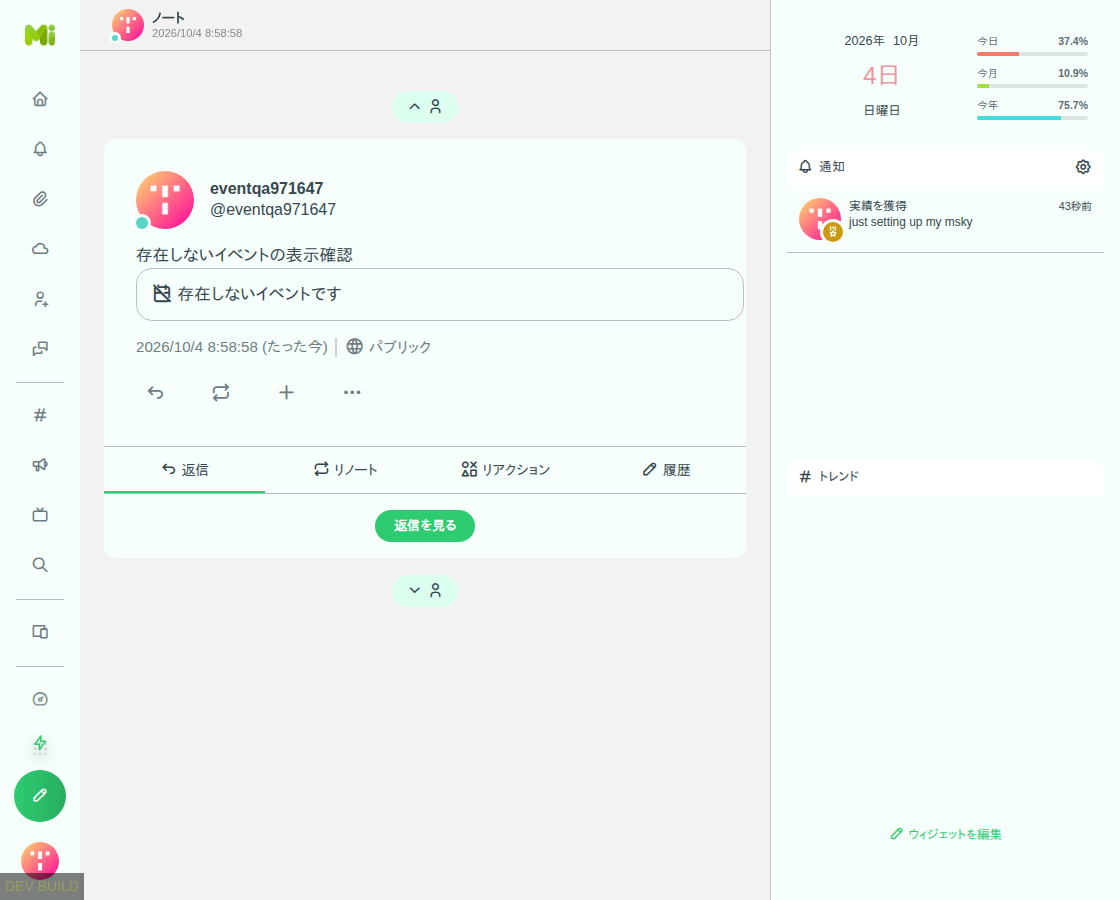
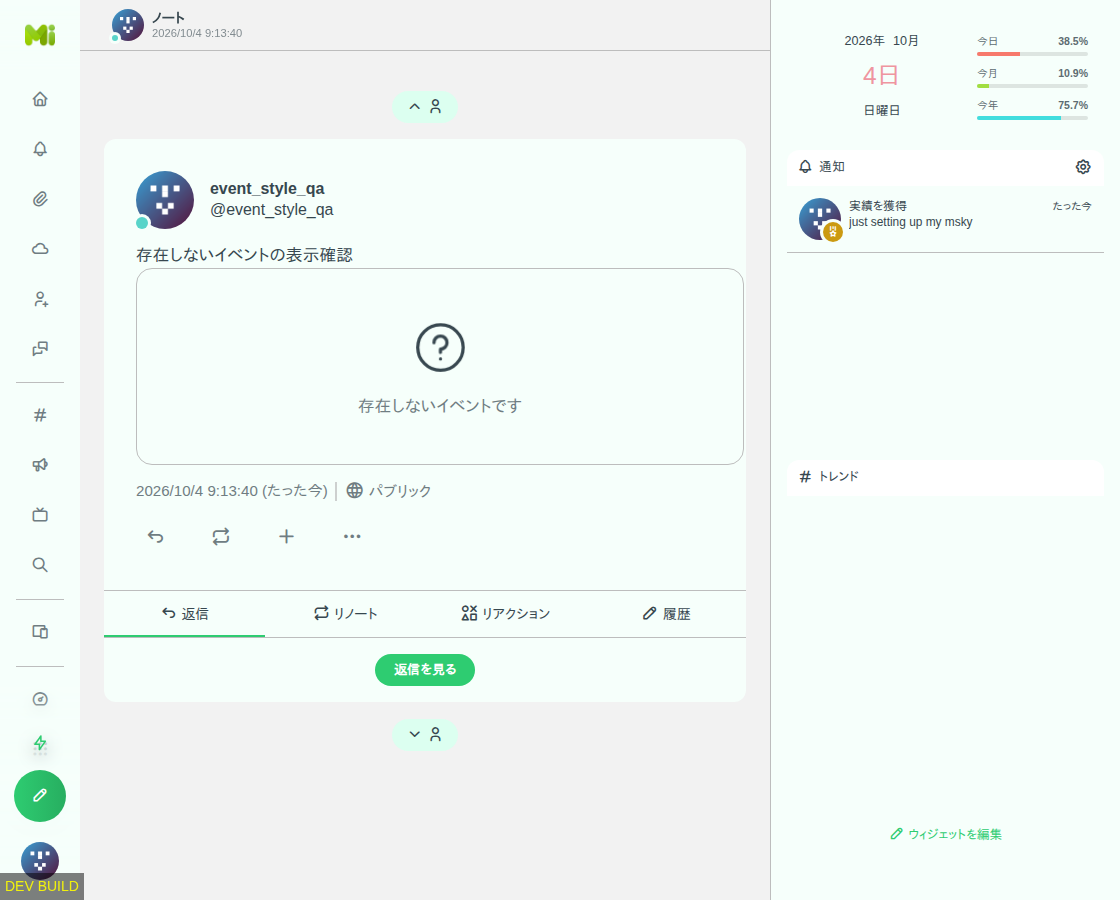
fix(frontend): イベント未検出時の表示を共通エラー画面に揃える

diff --git a/packages/frontend/src/pages/event.vue b/packages/frontend/src/pages/event.vue
@@ -127,11 +127,14 @@ SPDX-License-Identifier: AGPL-3.0-only
 		</div>
 	</div>
 	<div v-else-if="loadError" :class="$style.root">
-		<p role="status">{{ loadError }}</p>
-		<MkButton @click="router.push('/events')">
-			<i class="ti ti-arrow-left" aria-hidden="true"></i>
-			{{ i18n.ts.goBack }}
-		</MkButton>
+		<MkResult :type="notFound ? 'notFound' : 'error'" :text="loadError" role="status">
+			<div class="_buttonsCenter">
+				<MkButton rounded @click="router.push('/events')">
+					<i class="ti ti-arrow-left" aria-hidden="true"></i>
+					{{ i18n.ts.goBack }}
+				</MkButton>
+			</div>
+		</MkResult>
 	</div>
 	<div v-else :class="$style.loading">
 		<MkLoading/>
@@ -146,6 +149,7 @@ import { url } from '@@/js/config.js';
 import MkButton from '@/components/MkButton.vue';
 import MkAvatar from '@/components/global/MkAvatar.vue';
 import MkLoading from '@/components/global/MkLoading.vue';
+import MkResult from '@/components/global/MkResult.vue';
 import { misskeyApi } from '@/utility/misskey-api.js';
 import { i18n } from '@/i18n.js';
 import { definePage } from '@/page.js';
@@ -161,6 +165,7 @@ const router = useRouter();
 const eventId = toRef(props, 'eventId');
 const event = ref<Misskey.entities.Event | null>(null);
 const loadError = ref<string | null>(null);
+const notFound = ref(false);
 const canManagePendingEvent = ref(false);
 
 const isOwner = computed(() => {
@@ -174,7 +179,8 @@ async function fetchEvent() {
 		event.value = await misskeyApi('events/show', { eventId: eventId.value });
 	} catch (error) {
 		event.value = null;
-		loadError.value = (error as { code?: string }).code === 'NO_SUCH_EVENT'
+		notFound.value = (error as { code?: string }).code === 'NO_SUCH_EVENT';
+		loadError.value = notFound.value
 			? i18n.ts._events.eventNotFound
 			: i18n.ts._events.unknownError;
 		return;

diff --git a/packages/frontend/test/unit/events.test.ts b/packages/frontend/test/unit/events.test.ts
@@ -16,11 +16,13 @@ vi.mock('@/router.js', () => ({ useRouter: () => ({ push: fixture.push }) }));
 vi.mock('@/os.js', () => ({ alert: fixture.alert }));
 vi.mock('@/i.js', () => ({ $i: null, iAmModerator: false }));
 vi.mock('@/cache.js', () => ({}));
+vi.mock('@/instance.js', () => ({ instance: {} }));
 
 const global = { stubs: {
 	PageWithHeader: { template: '<main><slot/></main>' },
 	MkButton: { props: ['disabled'], template: '<button :disabled="disabled"><slot/></button>' },
 	MkLoading: { template: '<div data-testid="loading"/>' },
+	MkSystemIcon: { props: ['type'], template: '<div data-testid="result-icon" :data-type="type"/>' },
 	MkTime: true,
 	MkAvatar: true,
 	Mfm: true,
@@ -44,6 +46,7 @@ describe('Event failure presentation', () => {
 		fixture.api.mockRejectedValue({ code: 'NO_SUCH_EVENT' });
 		const view = render(component, { props: { eventId: 'missing' }, global });
 		await waitFor(() => expect(view.getByText(i18n.ts._events.eventNotFound)).toBeTruthy());
+		expect(view.getByTestId('result-icon').getAttribute('data-type')).toBe('question');
 		expect(view.queryByTestId('loading')).toBeNull();
 		expect(fixture.api).toHaveBeenCalledWith('events/show', { eventId: 'missing' });
 	});
@@ -52,6 +55,7 @@ describe('Event failure presentation', () => {
 		fixture.api.mockRejectedValue(new Error('Network error'));
 		const view = render(component, { props: { eventId: 'event' }, global });
 		await waitFor(() => expect(view.getByText(i18n.ts._events.unknownError)).toBeTruthy());
+		expect(view.getByTestId('result-icon').getAttribute('data-type')).toBe('error');
 		expect(view.queryByText(i18n.ts._events.eventNotFound)).toBeNull();
 		expect(view.queryByTestId('loading')).toBeNull();
 	});

diff --git a/packages/frontend/src/components/MkUrlEventCard.vue b/packages/frontend/src/components/MkUrlEventCard.vue
@@ -99,7 +99,7 @@ SPDX-License-Identifier: AGPL-3.0-only
 </article>
 <article v-else :class="$style.root" role="status">
 	<MkLoading v-if="loading"/>
-	<div v-else><i class="ti ti-calendar-off" aria-hidden="true"></i> {{ loadError }}</div>
+	<MkResult v-else :type="notFound ? 'notFound' : 'error'" :text="loadError ?? undefined"/>
 </article>
 </template>
 
@@ -108,6 +108,7 @@ import { computed, ref, onMounted, toRef } from 'vue';
 import type * as Misskey from 'misskey-js';
 import MkButton from '@/components/MkButton.vue';
 import MkLink from '@/components/MkLink.vue';
+import MkResult from '@/components/global/MkResult.vue';
 import { i18n } from '@/i18n.js';
 import { useRouter } from '@/router.js';
 import { misskeyApi } from '@/utility/misskey-api.js';
@@ -123,6 +124,7 @@ const eventData = ref<Misskey.entities.Event | null>(null);
 const channelName = ref<string | null>(null);
 const loading = ref(true);
 const loadError = ref<string | null>(null);
+const notFound = ref(false);
 
 onMounted(async () => {
 	try {
@@ -133,7 +135,8 @@ onMounted(async () => {
 				.then(channel => channel.name).catch(() => null);
 		}
 	} catch (error) {
-		loadError.value = (error as { code?: string }).code === 'NO_SUCH_EVENT'
+		notFound.value = (error as { code?: string }).code === 'NO_SUCH_EVENT';
+		loadError.value = notFound.value
 			? i18n.ts._events.eventNotFound
 			: i18n.ts._events.unknownError;
 	} finally {
